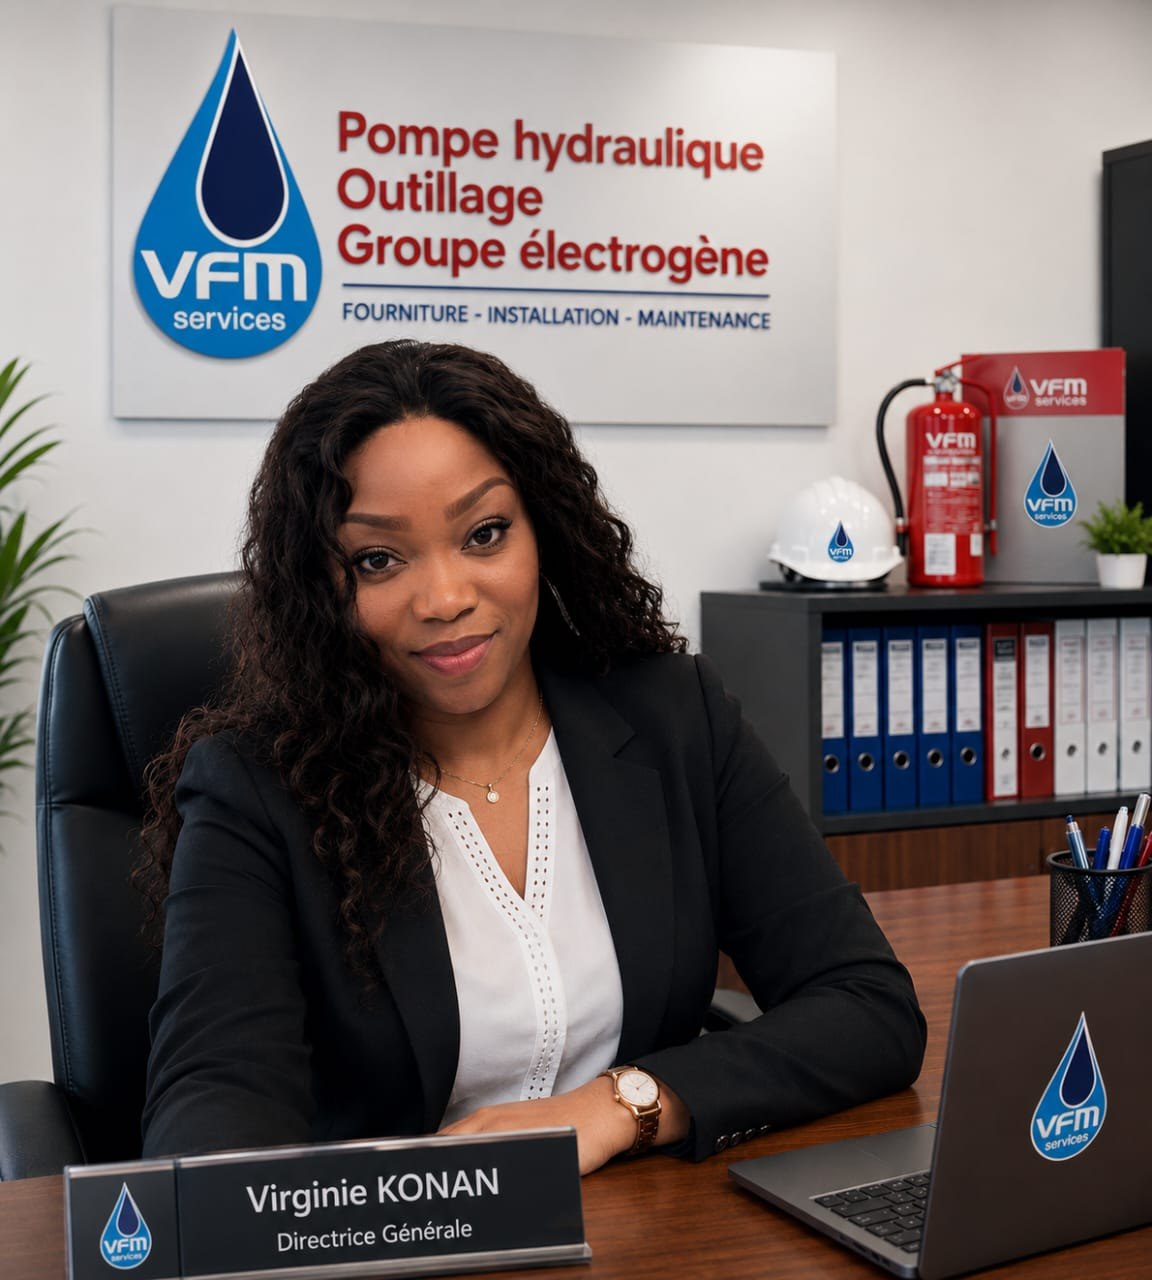
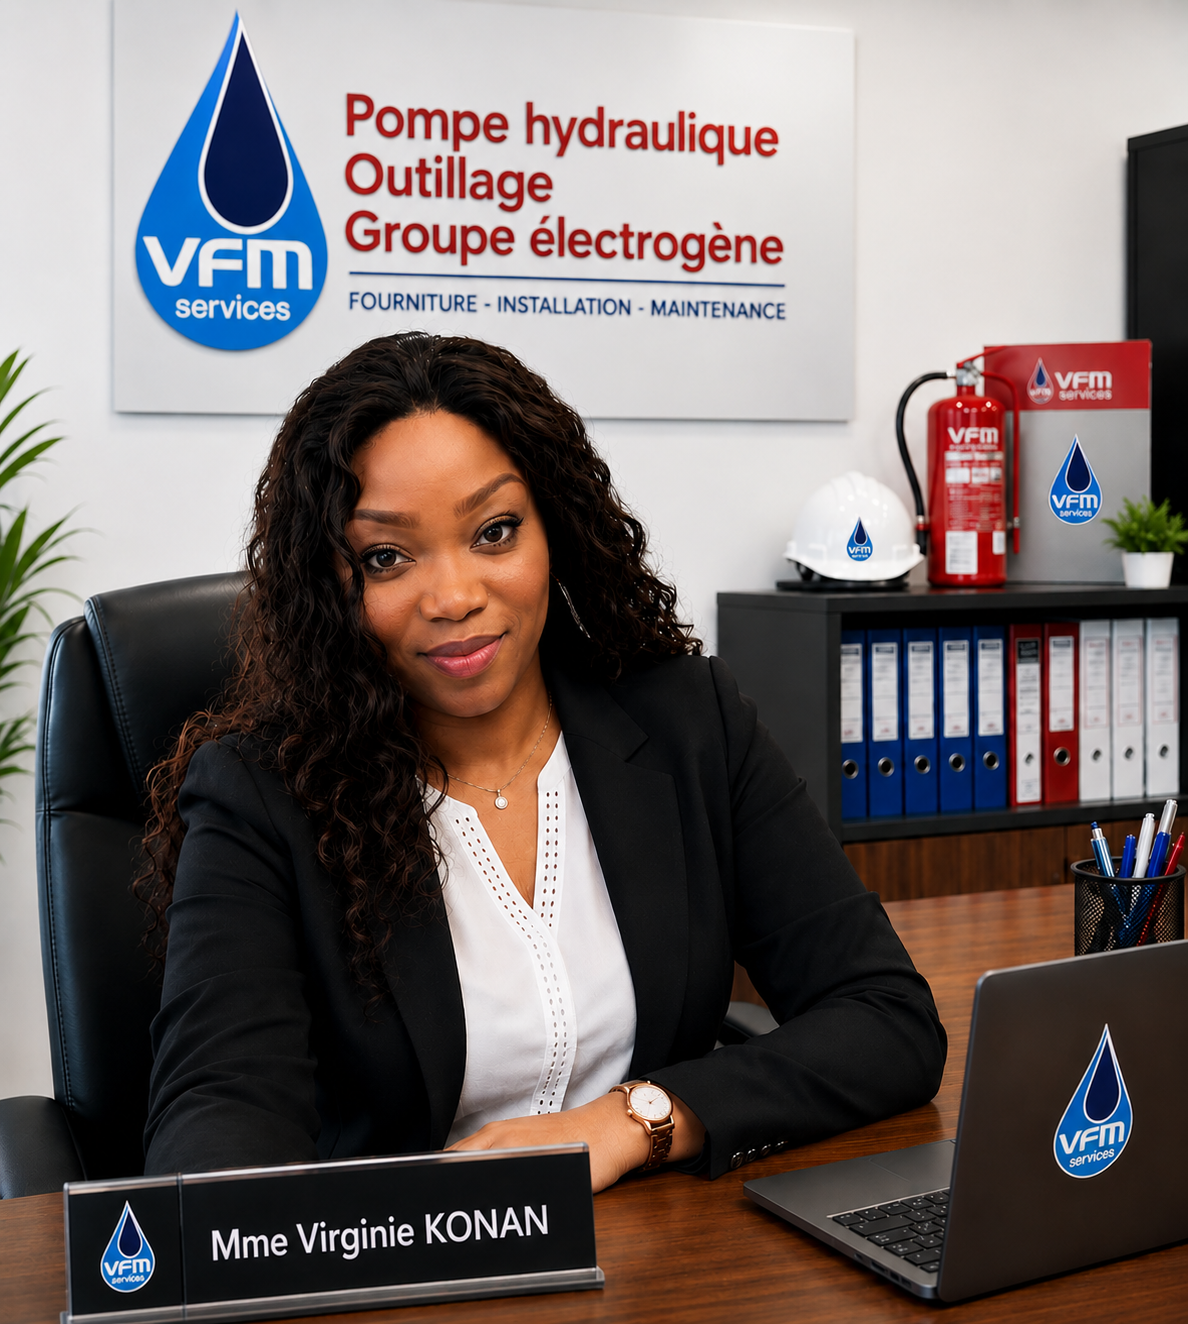
feat: update naming convention for the manager and add director profile image

diff --git a/index.html b/index.html
@@ -226,7 +226,7 @@
             "Aujourd'hui, nous sommes fiers d'avoir participé à l'équipement de plus d'une centaine de stations-services et d'avoir accompagné de nombreuses industries dans l'optimisation de leurs installations. Notre engagement envers l'excellence et la satisfaction de nos clients reste le moteur de notre croissance continue."
           </p>
           <div class="mt-8">
-            <p class="font-headline-md text-headline-md text-primary font-bold">Virginie KONAN</p>
+            <p class="font-headline-md text-headline-md text-primary font-bold">Mme Virginie KONAN</p>
             <p class="font-body-md text-on-surface-variant uppercase tracking-wider text-sm mt-1">Gérante, VFM Services</p>
           </div>
         </div>

diff --git a/apropos.html b/apropos.html
@@ -139,7 +139,7 @@
               </p>
               <div style="border-top: 1px solid var(--color-border); padding-top: 1.25rem; display: flex; justify-content: space-between; align-items: center; flex-wrap: wrap; gap: 1rem;">
                 <div>
-                  <strong style="display: block; color: var(--color-primary-dark); font-size: 1.05rem;">Virginie Konan</strong>
+                  <strong style="display: block; color: var(--color-primary-dark); font-size: 1.05rem;">Mme Virginie Konan</strong>
                   <small style="color: var(--color-text-muted);">Gérante — VFM Services</small>
                 </div>
                 <a href="contact.html#devisForm" class="btn btn--accent">Prendre Contact ➔</a>

diff --git a/accueil.html b/accueil.html
@@ -225,7 +225,7 @@
                     "Aujourd'hui, nous sommes fiers d'avoir participé à l'équipement de plus d'une centaine de stations-services et d'avoir accompagné de nombreuses industries dans l'optimisation de leurs installations. Notre engagement envers l'excellence et la satisfaction de nos clients reste le moteur de notre croissance continue."
                 </p>
 <div class="mt-8">
-<p class="font-headline-md text-headline-md text-primary font-bold">Virginie KONAN</p>
+<p class="font-headline-md text-headline-md text-primary font-bold">Mme Virginie KONAN</p>
 <p class="font-body-md text-on-surface-variant uppercase tracking-wider text-sm mt-1">Gérante, VFM Services</p>
 </div>
 </div>
